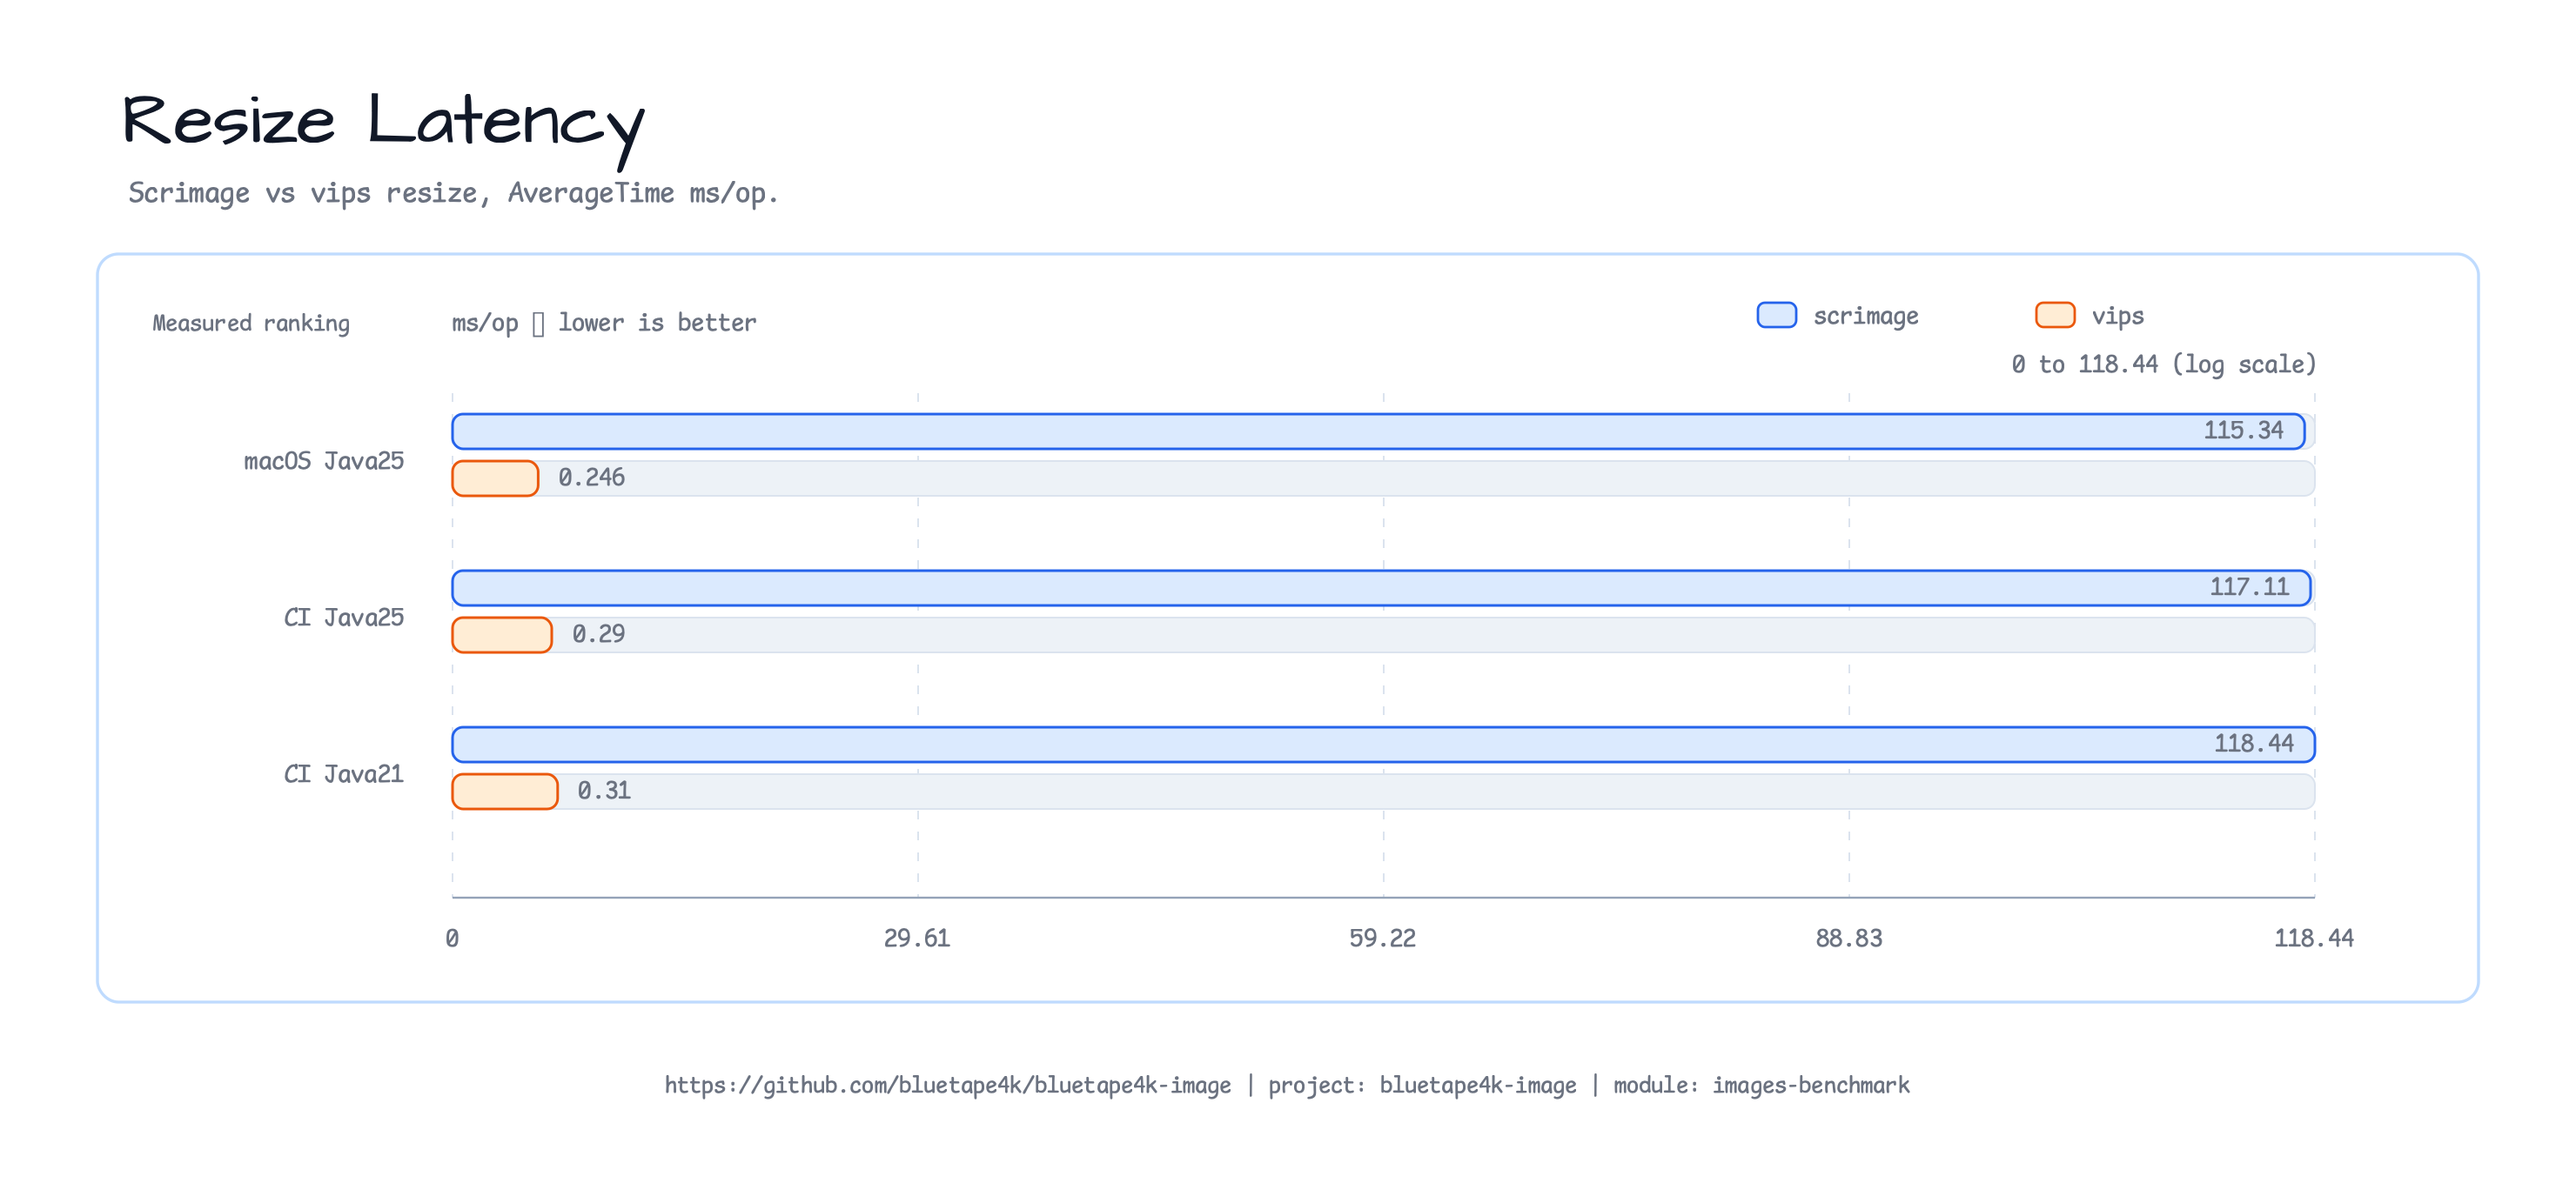
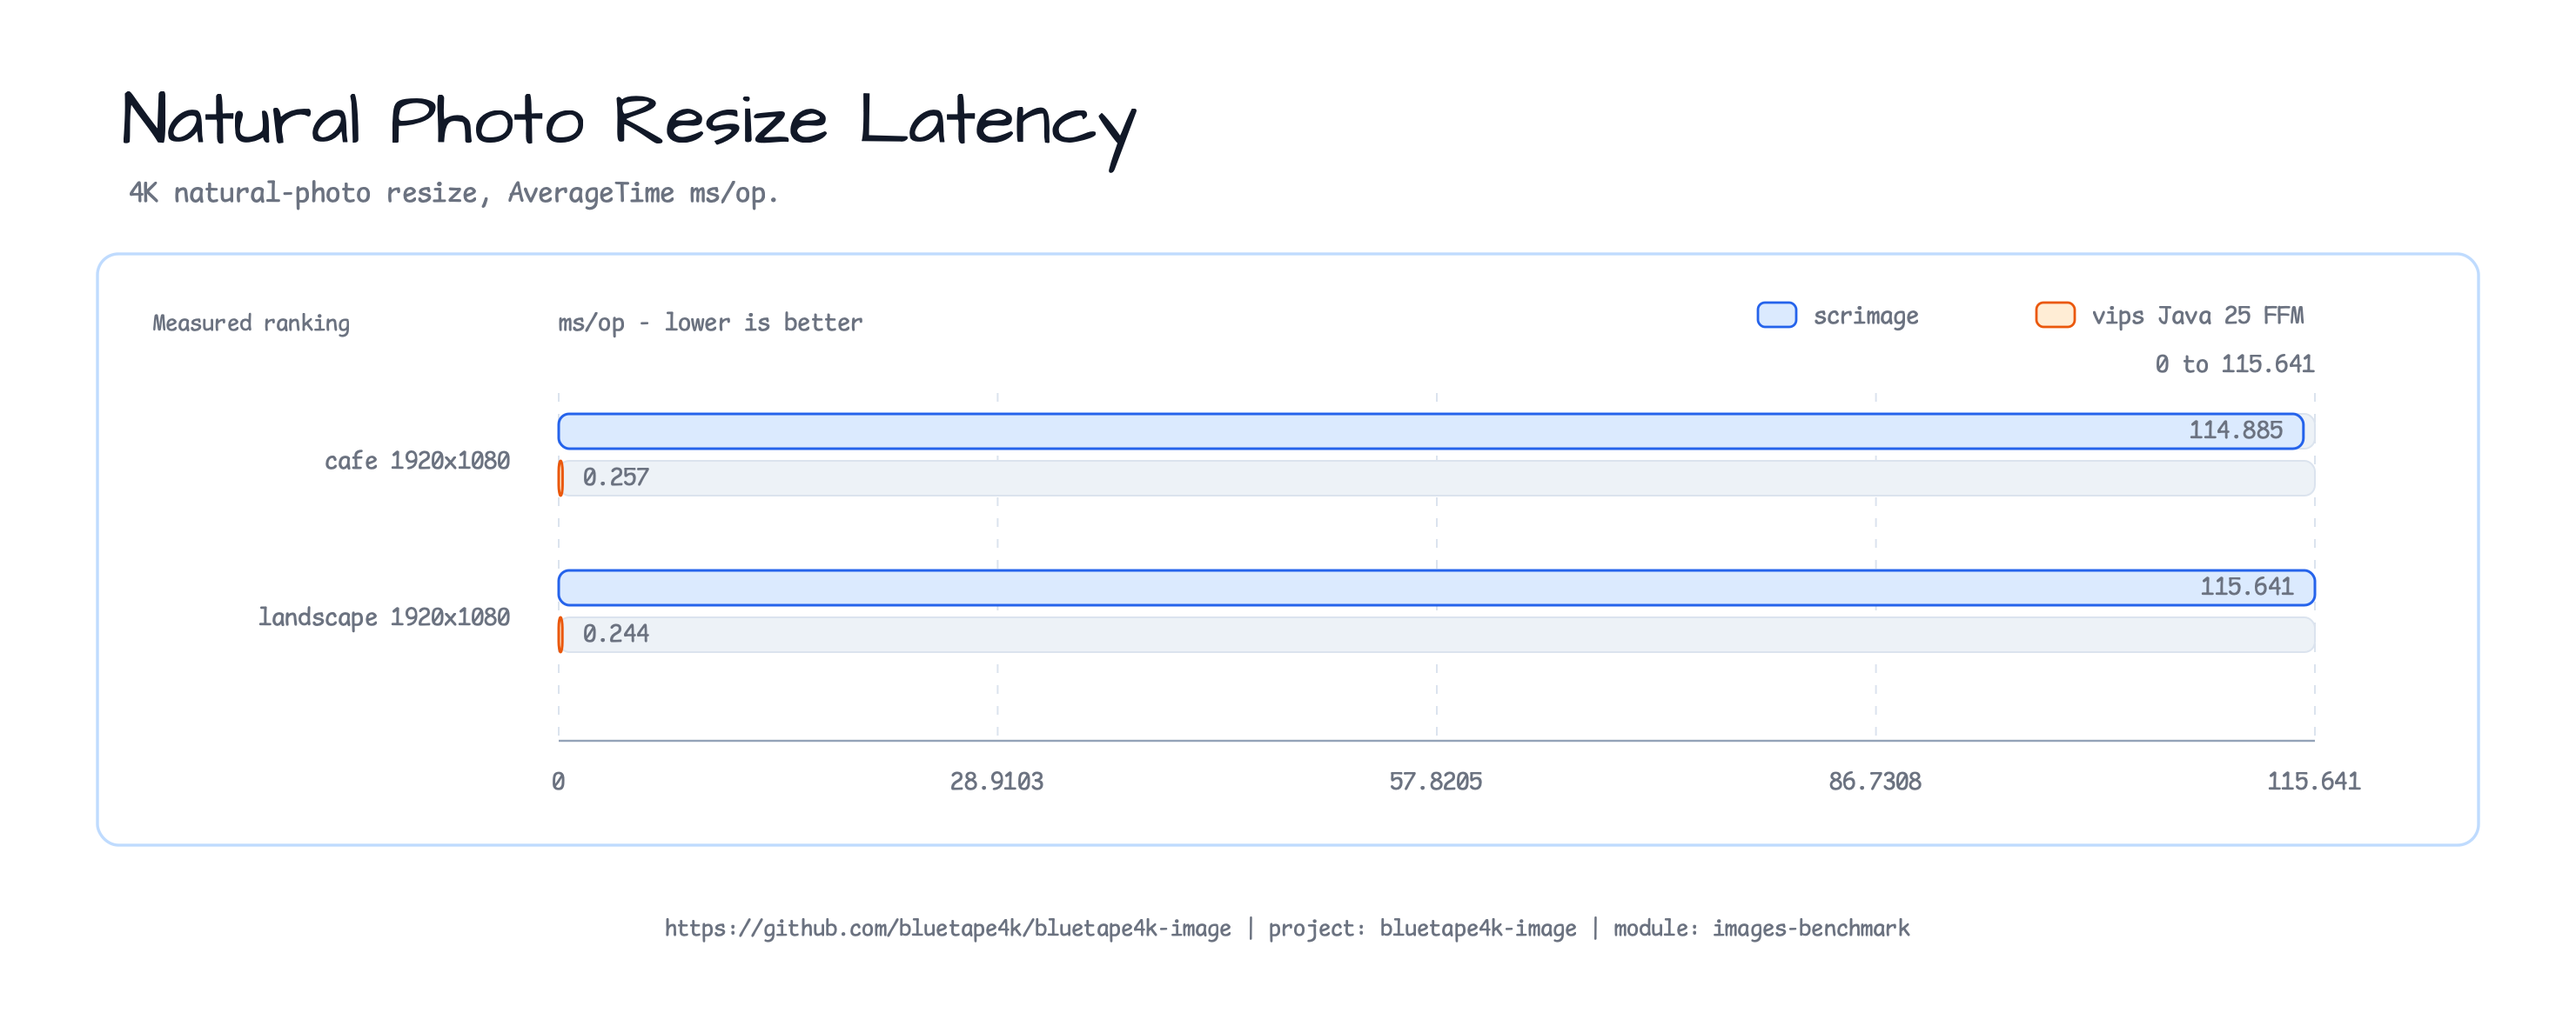
docs: refresh natural photo benchmark headlines
Constraint: README comparisons must use comparable natural-photo evidence.\nRejected: synthetic fallback and mixed-host rows | they do not represent the current fixture contract.\nConfidence: high\nScope-risk: narrow\nDirective: keep README tables and chart values traceable to the same raw benchmark artifact.\nTested: raw/report comparison, XML validation, CairoSVG 2x rendering, full-size PNG review, Python compile, and diff check.\nNot-tested: external CI and GitHub PR checks.

diff --git a/docs/scripts/generate-readme-visual-assets.py b/docs/scripts/generate-readme-visual-assets.py
@@ -11,6 +11,7 @@ from __future__ import annotations
 import html
 import math
 import re
+import shutil
 import subprocess
 from dataclasses import dataclass
 from pathlib import Path
@@ -118,6 +119,7 @@ class ChartSpec:
     series: tuple[str, ...]
     source: str
     log_scale: bool = False
+    minimum_bar_width: float = 16.0
 
 
 def esc(value: str) -> str:
@@ -792,7 +794,7 @@ def render_chart(spec: ChartSpec) -> str:
     out.extend([
         f'<rect class="chart-panel" x="{panel_x}" y="{panel_y}" width="{panel_w}" height="{panel_h}" rx="12"/>',
         f'<text class="note" x="{panel_x + 32}" y="{panel_y + 44}">Measured ranking</text>',
-        f'<text class="axis" x="{left}" y="{panel_y + 44}">{esc(spec.unit)} · {esc(spec.direction)}</text>',
+        f'<text class="axis" x="{left}" y="{panel_y + 44}">{esc(spec.unit)} - {esc(spec.direction)}</text>',
         f'<text class="axis" x="{left + plot_w:.1f}" y="{panel_y + 68}" text-anchor="end">0 to {max_value:g}{(" (log scale)" if spec.log_scale else "")}</text>',
         f'<text class="note" x="{width / 2:.1f}" y="{height - 52}" text-anchor="middle">{esc(footer_text(spec.base))}</text>',
     ])
@@ -813,7 +815,7 @@ def render_chart(spec: ChartSpec) -> str:
         out.append(f'<text class="axis" x="{left - 28}" y="{label_y:.1f}" text-anchor="end">{esc(label)}</text>')
         for series_index, value in enumerate(row):
             measure = math.log10(value + 1) if spec.log_scale and value > 0 else value
-            bar_w = 0 if value <= 0 else max(16, measure / scaled_max * plot_w)
+            bar_w = 0 if value <= 0 else max(spec.minimum_bar_width, measure / scaled_max * plot_w)
             bar_y = y + series_index * series_gap
             fill, stroke = colors[series_index % len(colors)]
             out.append(f'<rect x="{left}" y="{bar_y}" width="{plot_w:.1f}" height="{bar_h}" rx="6" fill="#edf2f7" stroke="#dbe3ee" stroke-width="1"/>')
@@ -833,15 +835,18 @@ def render_chart(spec: ChartSpec) -> str:
 def save_chart(spec: ChartSpec) -> str:
     svg = CHART_OUT / f"{spec.base}.svg"
     svg.write_text(render_chart(spec), encoding="utf-8")
-    subprocess.run(["rsvg-convert", str(svg), "-o", str(svg.with_suffix(".png"))], check=True)
+    cairosvg = shutil.which("cairosvg")
+    if cairosvg is None:
+        raise RuntimeError("CairoSVG CLI is required to render README chart PNG assets")
+    subprocess.run([cairosvg, str(svg), "-o", str(svg.with_suffix(".png")), "-s", "2"], check=True)
     return f"{spec.base}: chartRows={len(spec.rows)} series={len(spec.series)} unit={spec.unit} direction={spec.direction} fontFallback=0 sourceEvidence={esc(spec.source)}"
 
 
 def chart_specs() -> tuple[ChartSpec, ...]:
     return (
         ChartSpec("root-readme-module-chart-01", "Module Composition Chart", "Artifact lanes by runtime requirement and adoption role.", "module count", "higher is better for lane breadth", (("Pure JVM", (3,)), ("Service adapters", (2,)), ("OCR", (1,)), ("Native vips", (3,)), ("Benchmark/BOM", (2,))), ("modules",), "README module table and settings.gradle.kts"),
-        ChartSpec("images-benchmark-resize-latency-chart-01", "Resize Latency", "Scrimage vs vips resize, AverageTime ms/op.", "ms/op", "lower is better", (("macOS Java25", (115.34, 0.246)), ("CI Java25", (117.11, 0.29)), ("CI Java21", (118.44, 0.31))), ("scrimage", "vips"), "images-benchmark README resize table", True),
-        ChartSpec("images-benchmark-encode-latency-chart-01", "Encode Latency", "JPEG and PNG encode, AverageTime ms/op.", "ms/op", "lower is better", (("JPEG macOS", (146.09, 44.16)), ("PNG macOS", (832.79, 96.6)), ("JPEG CI", (151.0, 48.2)), ("PNG CI", (840.0, 101.0))), ("scrimage", "vips"), "images-benchmark README encode table", True),
+        ChartSpec("images-benchmark-resize-latency-chart-01", "Natural Photo Resize Latency", "4K natural-photo resize, AverageTime ms/op.", "ms/op", "lower is better", (("cafe 1920x1080", (114.885, 0.257)), ("landscape 1920x1080", (115.641, 0.244))), ("scrimage", "vips Java 25 FFM"), "benchmark-results-2026-05-28-natural-photos.md", minimum_bar_width=0),
+        ChartSpec("images-benchmark-encode-latency-chart-01", "Natural Photo Encode Latency", "Natural-photo JPEG and PNG encode, AverageTime ms/op.", "ms/op", "lower is better", (("JPEG cafe", (137.947, 58.351)), ("JPEG landscape", (144.961, 46.749)), ("PNG cafe", (884.105, 585.288)), ("PNG landscape", (989.370, 546.388))), ("scrimage", "vips Java 25 FFM"), "benchmark-results-2026-05-28-natural-photos.md", minimum_bar_width=0),
         ChartSpec("images-benchmark-vips-backend-comparison-chart-01", "Vips Backend Comparison", "Java 21 JVips and Java 25 FFM backend snapshots.", "ms/op", "lower is better", (("resize", (0.31, 0.246)), ("thumbnail", (0.34, 0.266)), ("crop", (0.12, 0.085)), ("encodeJpeg", (49.4, 44.16))), ("java21", "java25"), "VipsBackendBenchmark and README backend table", True),
         ChartSpec("images-benchmark-filter-latency-chart-01", "Filter Latency", "Current filter benchmark comparison.", "ms/op", "lower is better", (("grayscale", (14.8, 15.6, 16.2)), ("sepia", (22.4, 23.1, 23.8)), ("blur", (57.3, 59.4, 60.1)), ("watermark", (31.7, 32.5, 33.0))), ("macOS", "CI java25", "CI java21"), "images-benchmark README filter table"),
         ChartSpec("images-benchmark-pipeline-allocation-chart-01", "Pipeline Allocation", "High-level scrimage pipelines with managed heap allocation.", "MB/op", "lower is better", (("photoPreviewJpeg", (50.75, 113.82)), ("documentPreviewPng", (60.89, 57.86))), ("MB/op", "ms/op"), "pipeline-allocation-2026-05-29.md"),

diff --git a/benchmark/images-benchmark/README.ko.md b/benchmark/images-benchmark/README.ko.md
@@ -10,32 +10,29 @@
 
 ## 벤치마크 결과
 
-> AverageTime ms/op. 최신 macOS Java 25 실행: [`docs/benchmark-results-2026-05-25.md`](docs/benchmark-results-2026-05-25.md). CI Linux 행은 기존 [`docs/benchmark-results-2026-04-29.md`](docs/benchmark-results-2026-04-29.md) 값을 유지합니다.
+> AverageTime ms/op이며 낮을수록 좋습니다. 현재 비교 가능한 macOS Java 25 FFM 근거는 커밋된 자연사진 fixture를 사용한 [`docs/benchmark-results-2026-05-28-natural-photos.md`](docs/benchmark-results-2026-05-28-natural-photos.md) 및 [raw JSON](docs/raw/benchmark-results-2026-05-28-macos-java25-natural-photos.json)입니다. 동일 fixture를 사용하지 않은 CI Linux 행은 의도적으로 제외합니다.
 
-### 리사이즈 (4K 3840×2160 → 1920×1080)
+### 리사이즈 (자연 4K 사진 → 1920×1080)
 
 ![Resize latency benchmark chart](../../docs/images/readme-charts/images-benchmark-resize-latency-chart-01.png)
 
-| 환경 | scrimage (ms/op) | vips (ms/op) | 속도 향상 |
-|------|-----------------|--------------|----------|
-| macOS, java25 vips-ffm | 65.64 ± 0.76 | 0.170 ± 0.006 | **386배** |
-| CI Linux, java25 | 187.29 ± 9.07 | 0.591 ± 0.046 | **317배** |
-| CI Linux, java21 | 195.63 ± 7.39 | 0.495 ± 0.062 | **395배** |
+| 자연사진 | scrimage (ms/op) | vips Java 25 FFM (ms/op) | 속도 향상 |
+|----------|-----------------|---------------------------|----------|
+| `cafe` | 114.885 ± 3.207 | 0.257 ± 0.083 | **446배** |
+| `landscape` | 115.641 ± 2.242 | 0.244 ± 0.028 | **473배** |
 
-### 인코딩 (4K photo 이미지)
+### 인코딩 (자연 4K 사진)
 
 ![Encode latency benchmark chart](../../docs/images/readme-charts/images-benchmark-encode-latency-chart-01.png)
 
-| 포맷 | 환경 | scrimage (ms/op) | vips (ms/op) | 속도 향상 |
-|------|------|-----------------|--------------|----------|
-| JPEG | macOS, java25 vips-ffm | 46.55 ± 0.75 | 15.18 ± 0.55 | **3.1배** |
-| JPEG | CI Linux, java25 | 171.16 ± 121.3 | 37.20 ± 0.99  | **4.6배** |
-| JPEG | CI Linux, java21 | 161.09 ± 38.9  | 37.22 ± 1.50  | **4.3배** |
-| PNG  | macOS, java25 vips-ffm | 84.91 ± 4.21 | 46.91 ± 0.52 | **1.8배** |
-| PNG  | CI Linux, java25 | 249.01 ± 2.14  | 137.95 ± 2.93 | **1.8배** |
-| PNG  | CI Linux, java21 | 246.44 ± 2.14  | 255.90 ± 10.2 | −1.04배 ⚠ |
+| 포맷 | 자연사진 | scrimage (ms/op) | vips Java 25 FFM (ms/op) | 속도 향상 |
+|------|----------|-----------------|---------------------------|----------|
+| JPEG | `cafe` | 137.947 ± 2.417 | 58.351 ± 23.828 | **2.4배** |
+| JPEG | `landscape` | 144.961 ± 5.511 | 46.749 ± 6.066 | **3.1배** |
+| PNG | `cafe` | 884.105 ± 156.993 | 585.288 ± 186.247 | **1.5배** |
+| PNG | `landscape` | 989.370 ± 346.605 | 546.388 ± 25.444 | **1.8배** |
 
-> ⚠ **java21 (JNI) PNG**: JNI 경계 오버헤드가 압축 이득을 상쇄합니다. Linux PNG 인코딩은 java25 (FFM) 사용을 권장합니다.
+> 이 값은 한 macOS Java 25 FFM host에서 측정한 자연사진 snapshot입니다. host 간 또는 Java 21 JNI 순위 비교가 아닙니다.
 
 ### Vips 백엔드 비교
 

diff --git a/benchmark/images-benchmark/README.md b/benchmark/images-benchmark/README.md
@@ -10,32 +10,29 @@
 
 ## Benchmark Results
 
-> AverageTime ms/op. Current macOS Java 25 run: [`docs/benchmark-results-2026-05-25.md`](docs/benchmark-results-2026-05-25.md). Historical CI Linux rows remain from [`docs/benchmark-results-2026-04-29.md`](docs/benchmark-results-2026-04-29.md).
+> AverageTime ms/op; lower is better. Current comparable macOS Java 25 FFM evidence uses committed natural-photo fixtures: [`docs/benchmark-results-2026-05-28-natural-photos.md`](docs/benchmark-results-2026-05-28-natural-photos.md) and its [raw JSON](docs/raw/benchmark-results-2026-05-28-macos-java25-natural-photos.json). Historical CI Linux rows are intentionally excluded because they do not use the same fixture set.
 
-### Resize (4K 3840×2160 → 1920×1080)
+### Resize (natural 4K photo → 1920×1080)
 
 ![Resize latency benchmark chart](../../docs/images/readme-charts/images-benchmark-resize-latency-chart-01.png)
 
-| Environment | scrimage (ms/op) | vips (ms/op) | Speedup |
-|-------------|-----------------|--------------|---------|
-| macOS, java25 vips-ffm | 65.64 ± 0.76 | 0.170 ± 0.006 | **386×** |
-| CI Linux, java25 | 187.29 ± 9.07 | 0.591 ± 0.046 | **317×** |
-| CI Linux, java21 | 195.63 ± 7.39 | 0.495 ± 0.062 | **395×** |
+| Natural photo | scrimage (ms/op) | vips Java 25 FFM (ms/op) | Speedup |
+|---------------|-----------------|---------------------------|---------|
+| `cafe` | 114.885 ± 3.207 | 0.257 ± 0.083 | **446×** |
+| `landscape` | 115.641 ± 2.242 | 0.244 ± 0.028 | **473×** |
 
-### Encode (4K photo image)
+### Encode (natural 4K photo)
 
 ![Encode latency benchmark chart](../../docs/images/readme-charts/images-benchmark-encode-latency-chart-01.png)
 
-| Format | Environment | scrimage (ms/op) | vips (ms/op) | Speedup |
-|--------|-------------|-----------------|--------------|---------|
-| JPEG | macOS, java25 vips-ffm | 46.55 ± 0.75 | 15.18 ± 0.55 | **3.1×** |
-| JPEG | CI Linux, java25 | 171.16 ± 121.3 | 37.20 ± 0.99  | **4.6×** |
-| JPEG | CI Linux, java21 | 161.09 ± 38.9  | 37.22 ± 1.50  | **4.3×** |
-| PNG  | macOS, java25 vips-ffm | 84.91 ± 4.21 | 46.91 ± 0.52 | **1.8×** |
-| PNG  | CI Linux, java25 | 249.01 ± 2.14  | 137.95 ± 2.93 | **1.8×** |
-| PNG  | CI Linux, java21 | 246.44 ± 2.14  | 255.90 ± 10.2 | −1.04× ⚠ |
+| Format | Natural photo | scrimage (ms/op) | vips Java 25 FFM (ms/op) | Speedup |
+|--------|---------------|-----------------|---------------------------|---------|
+| JPEG | `cafe` | 137.947 ± 2.417 | 58.351 ± 23.828 | **2.4×** |
+| JPEG | `landscape` | 144.961 ± 5.511 | 46.749 ± 6.066 | **3.1×** |
+| PNG | `cafe` | 884.105 ± 156.993 | 585.288 ± 186.247 | **1.5×** |
+| PNG | `landscape` | 989.370 ± 346.605 | 546.388 ± 25.444 | **1.8×** |
 
-> ⚠ **java21 (JNI) PNG**: JNI boundary overhead exceeds compression gain vs scrimage. Use java25 (FFM) for PNG encoding on Linux.
+> These are natural-photo snapshots on one macOS Java 25 FFM host. They are not a cross-host or Java 21 JNI ranking.
 
 ### Vips Backend Comparison
 

diff --git a/docs/review/2026-07-10-issue-200-natural-photo-readme-review.md b/docs/review/2026-07-10-issue-200-natural-photo-readme-review.md
@@ -1,0 +1,47 @@
+# Issue #200 Natural-Photo README Review
+
+Date: 2026-07-10
+Scope: benchmark README tables and their resize/encode chart assets.
+
+## Evidence source
+
+The authoritative headline source is
+`benchmark/images-benchmark/docs/benchmark-results-2026-05-28-natural-photos.md`
+and its committed raw JSON. It uses the `cafe` and `landscape` natural-photo
+fixtures on macOS Java 25 FFM. The prior 2026-05-25 headline values used a
+synthetic fallback fixture and are no longer presented as comparable current
+evidence.
+
+## Review result
+
+**PASS — P0: 0, P1: 0**
+
+The English and Korean headline tables match the report/raw values. The target
+charts use linear 0-to-max axes, exact-scale bars (no minimum-width expansion),
+CairoSVG 2x PNG output, and ASCII axis separators that render without tofu
+glyphs.
+
+## Repaired blockers
+
+1. The initial chart configuration used log-transformed bars with linear ticks.
+   The target charts now use `log_scale=False`.
+2. The shared minimum 16px bar width exaggerated small FFM resize values.
+   Target charts set `minimum_bar_width=0`.
+3. Generated target PNGs used `rsvg-convert` at 1x. The generator now requires
+   CairoSVG and writes canonical 2x PNG output.
+4. CairoSVG rendered the `·` axis separator as a tofu glyph. The axis now uses
+   an ASCII hyphen.
+
+## Verification evidence
+
+- `xmllint --noout` passed for both target SVGs.
+- Final PNG dimensions: resize `2960x1180`; encode `2960x1540`.
+- Full-size PNG inspection confirmed readable titles, legend, axis, values, and
+  no clipped labels.
+- `python3 -m py_compile docs/scripts/generate-readme-visual-assets.py` passed.
+- `git diff --check` passed.
+
+## Non-blocking follow-up
+
+The generated SVG retains unused marker definitions. It does not affect the
+target chart's evidence, rendering, or readability.
